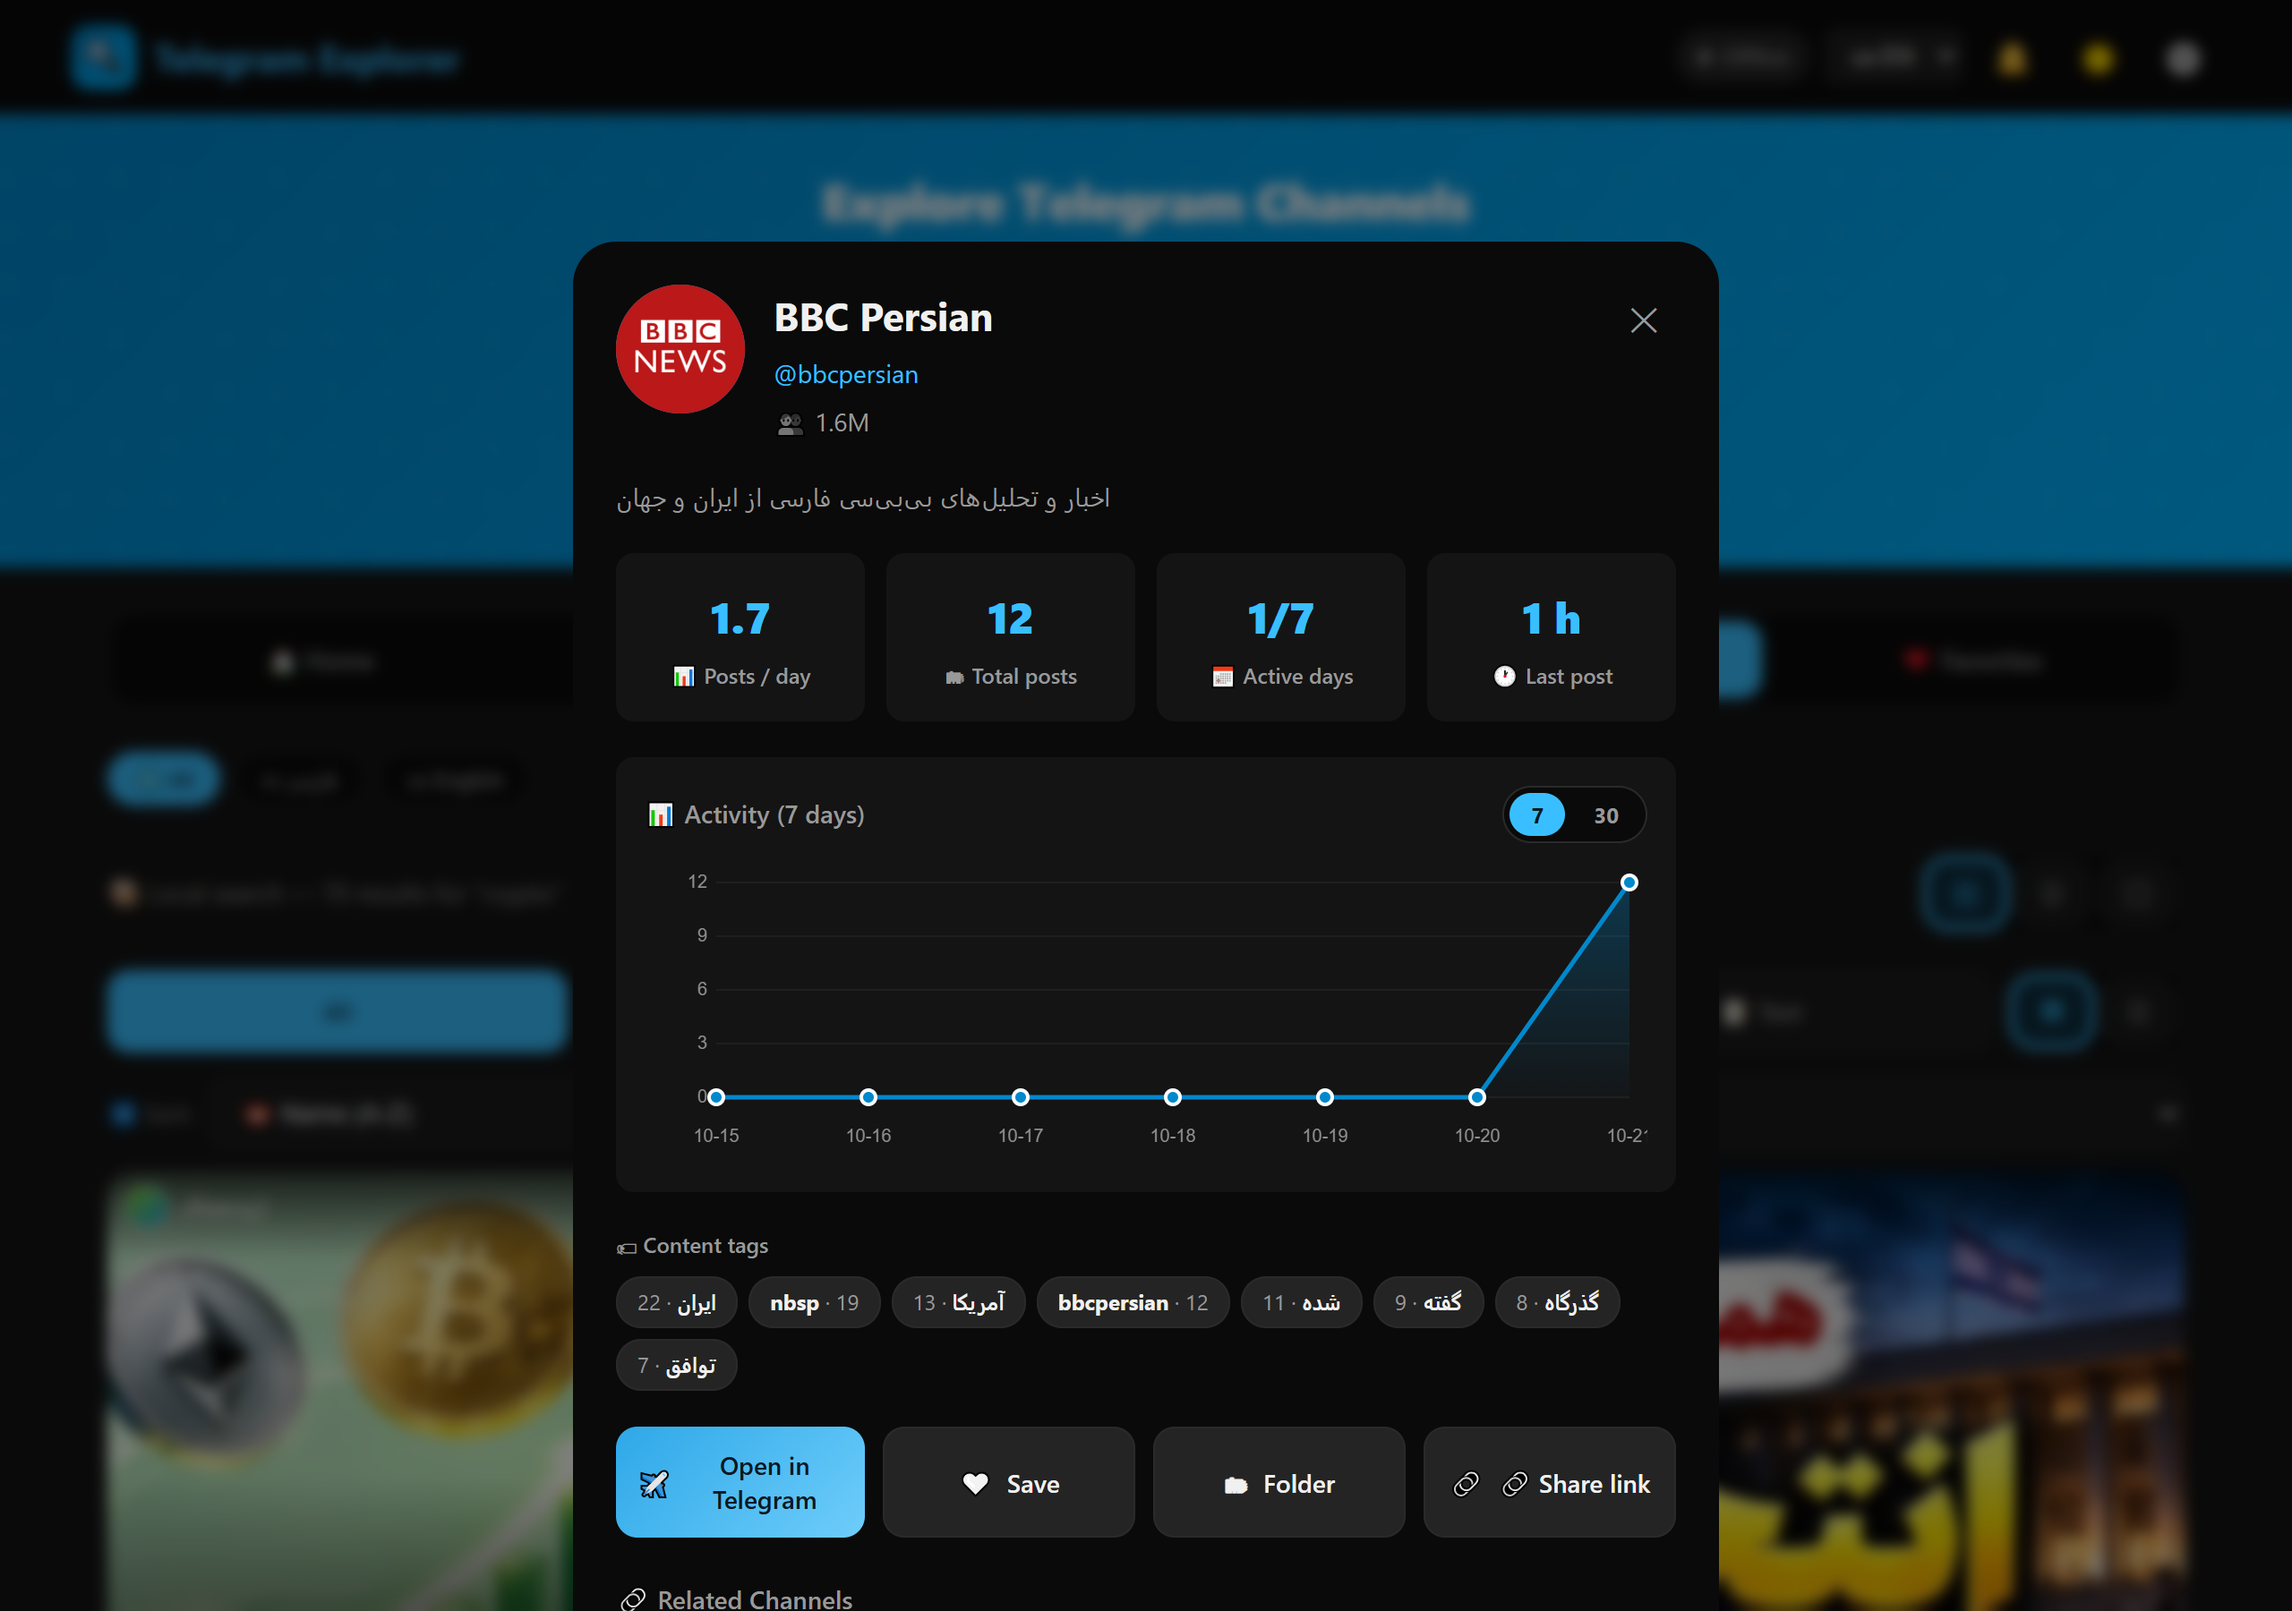
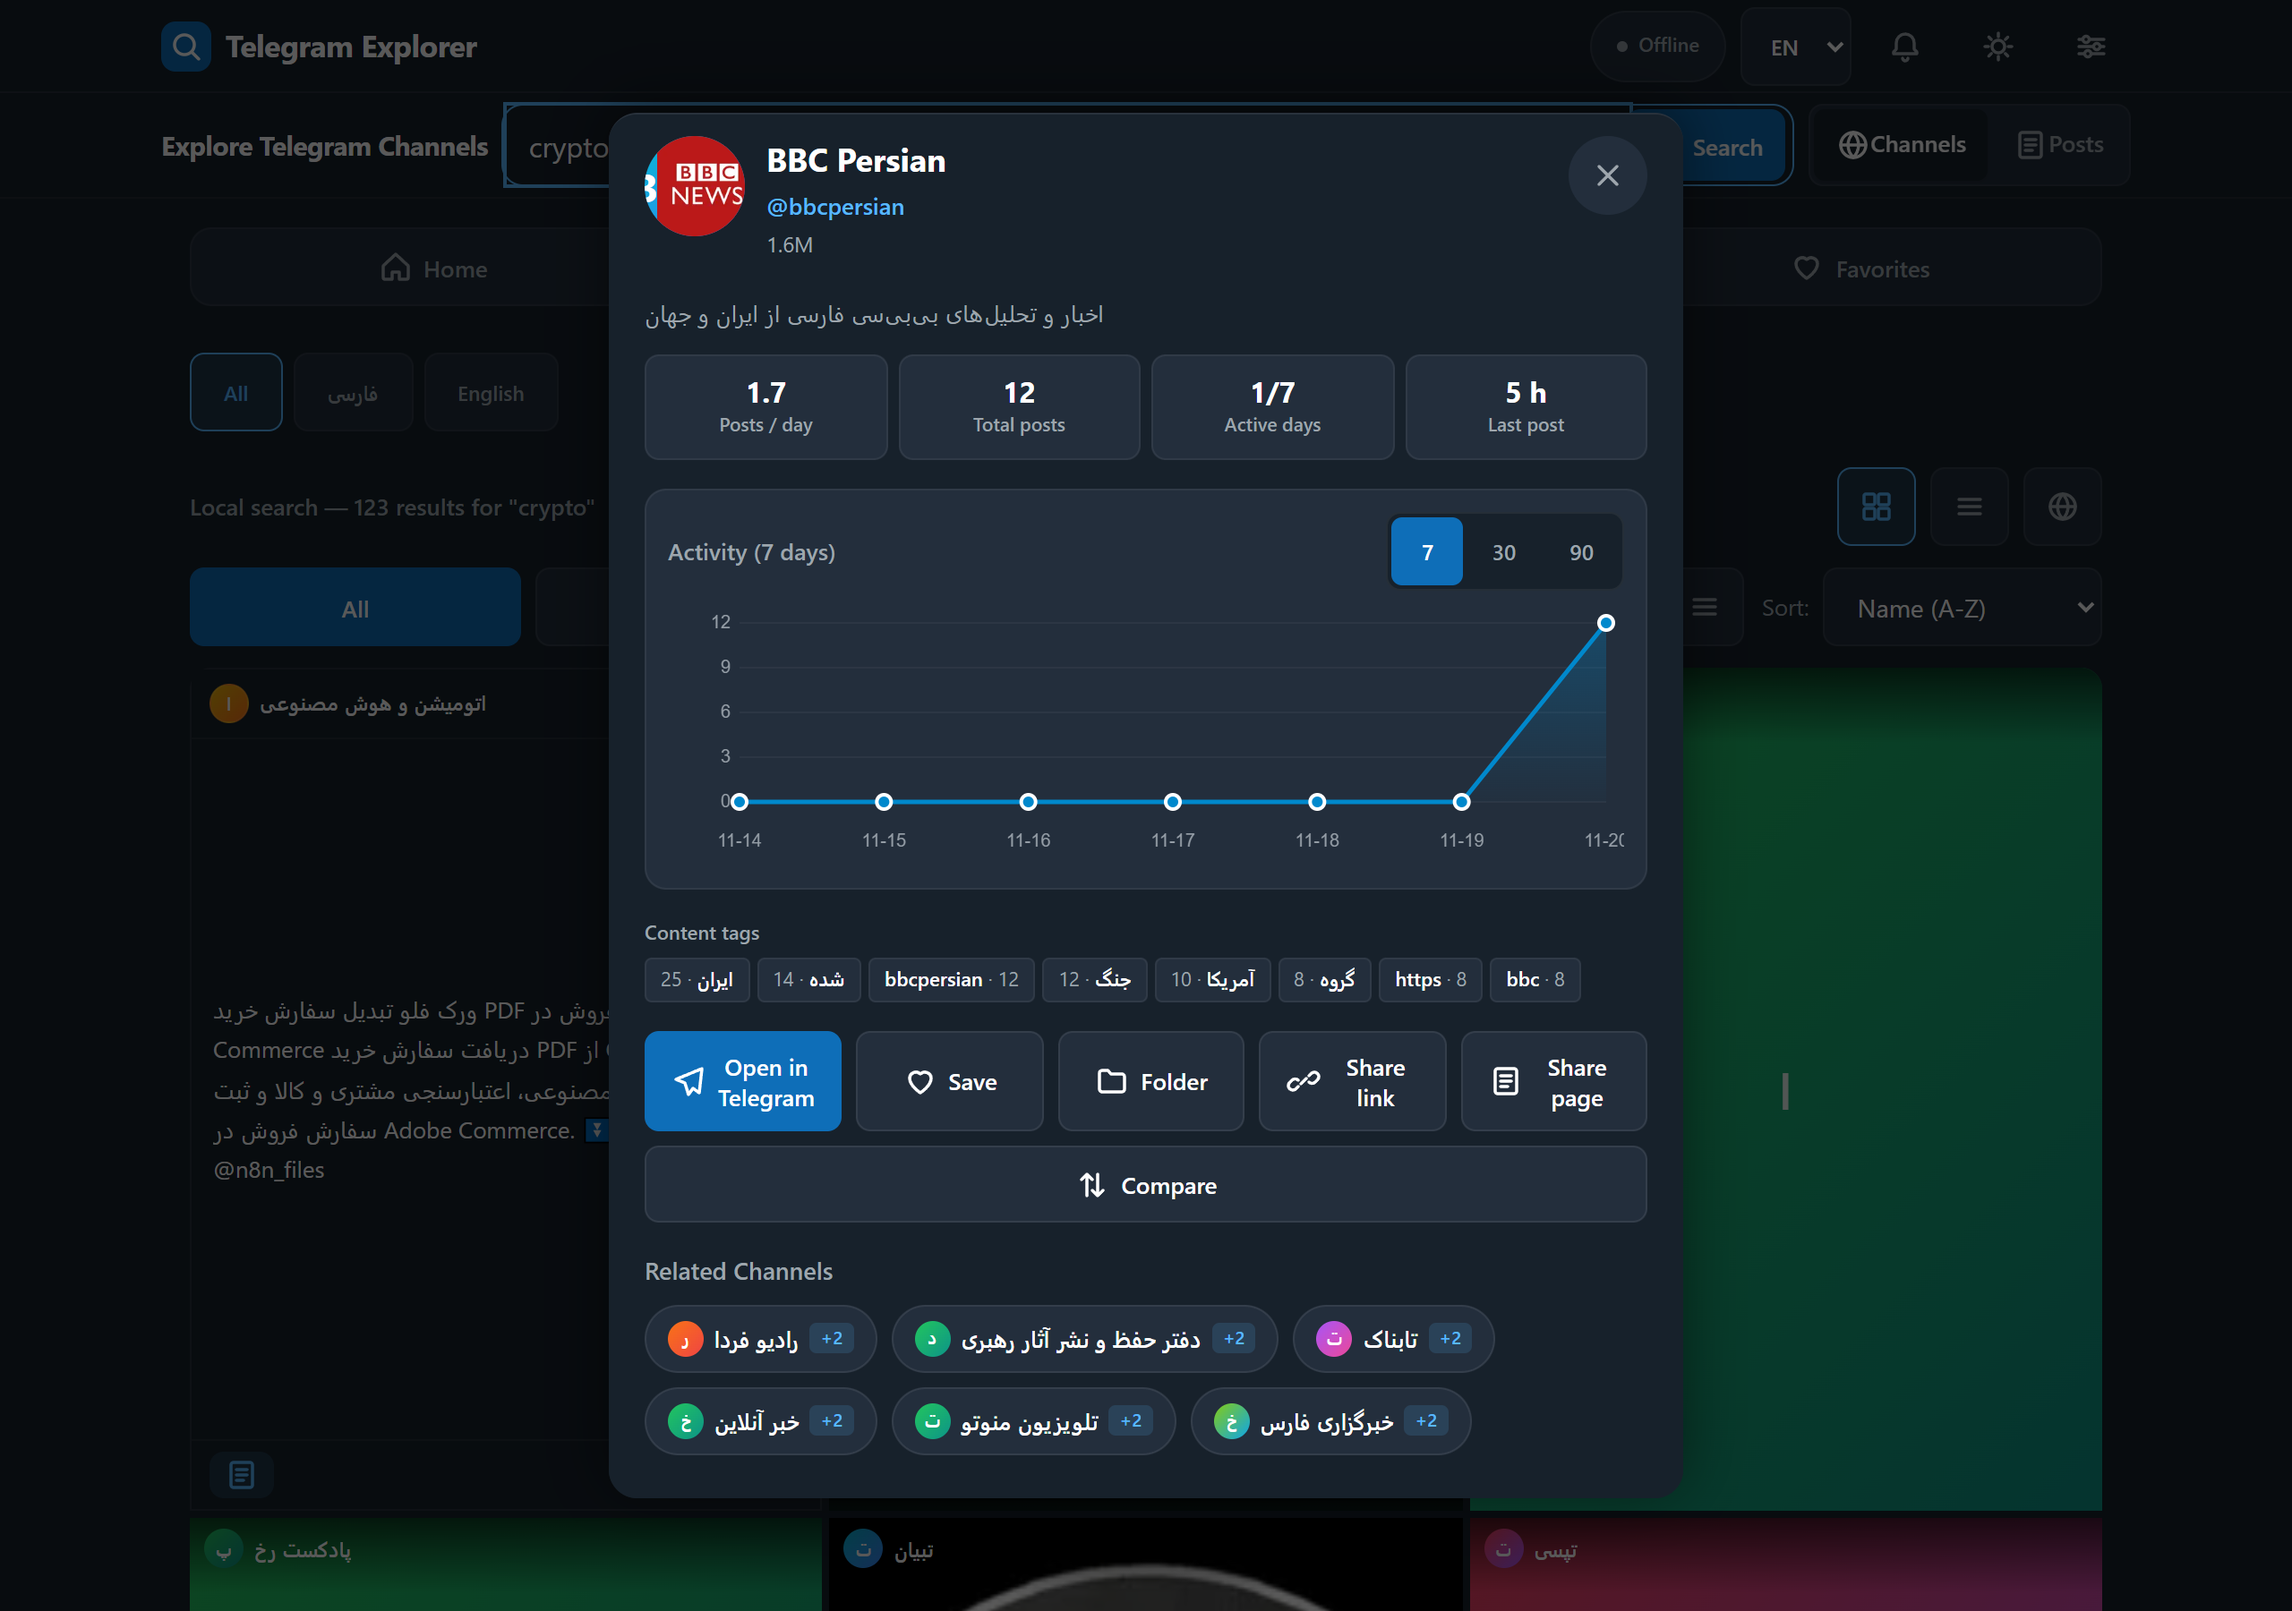
release: v1.8.0

diff --git a/scripts/screenshots.js b/scripts/screenshots.js
@@ -24,7 +24,7 @@ const BASE = process.env.BASE_URL || 'http://localhost:3000';
     colorScheme: 'dark',
   });
   const page = await context.newPage();
-  await page.goto(BASE, { waitUntil: 'load' });
+  await page.goto(BASE, { waitUntil: 'domcontentloaded' });
   await page.evaluate(() => { if (typeof window.skipSetup === 'function') window.skipSetup(); });
   await page.waitForTimeout(3500);
 
@@ -57,7 +57,7 @@ const BASE = process.env.BASE_URL || 'http://localhost:3000';
     hasTouch: true,
   });
   const mpage = await mobile.newPage();
-  await mpage.goto(BASE, { waitUntil: 'load' });
+  await mpage.goto(BASE, { waitUntil: 'domcontentloaded' });
   await mpage.evaluate(() => { if (typeof window.skipSetup === 'function') window.skipSetup(); });
   await mpage.waitForTimeout(3500);
   await mpage.screenshot({ path: path.join(OUT, 'mobile.png') });

diff --git a/sw.js b/sw.js
@@ -3,7 +3,7 @@
 // Handles caching for offline support and PWA
 // ============================================================
 
-const CACHE_NAME = 'tgexplorer-202611201550';
+const CACHE_NAME = 'tgexplorer-202611201915';
 // The watchlist/seen-post state lives in its own, deliberately unversioned
 // cache: `activate` purges every old shell cache, but the user's watch state
 // must survive a deploy.

diff --git a/CHANGELOG.md b/CHANGELOG.md
@@ -3,6 +3,16 @@
 Full version history of Telegram Explorer. The latest release is summarized in the
 [README](README.md#-changelog).
 
+## v1.8.0 (2026-11-20)
+
+- **Design system** — Telegram-native tokens (`themeParams` integration), flat surfaces with no decorative gradients or glassmorphism, and a dark theme that is no longer pitch black.
+- **Icons** — every UI emoji replaced by a single consistent `20×20` inline SVG icon set.
+- **Mobile** — marketing hero removed on mobile, bottom tab bar (`Home` / `Explore` / `Feed` / `Favorites`), Explore controls consolidated into a Filters bottom sheet with swipe-to-close and Telegram `BackButton` support, and **12 channel cards** visible above the fold at `390×844`.
+- **Feed** — text-only posts render as flat text-excerpt tiles (`--bg-secondary`, `--border-subtle`, `--radius-md`), removing the gradient initial-letter tiles.
+- **Motion** — tab content fade, image fade-in on load, and card press scale (`0.98`), using `transform`/`opacity` only and disabled under `prefers-reduced-motion`.
+- **Performance** — worker setup code, Compare, and Export modules are lazy-loaded on demand; `posts.js` no longer blocks first paint; Explore renders in chunks (`6` cards synchronously, rest in `requestAnimationFrame`, cutting longest boot task `885 ms → 192 ms` and local FCP `1.5 s → 1.1 s`). Cold-load Lighthouse performance is still limited by the inline module and style/layout cost; repeat visits are served from the service-worker cache.
+- **Accessibility** — stays at **100**; contrast fixes (`--text-tertiary` now `≥ 4.5:1` in both themes).
+
 ## v1.7.0
 
 - ⚖ **Compare two channels** — the channel modal has a **Compare** button

diff --git a/README.md b/README.md
@@ -98,6 +98,16 @@ too. If you hit a limit, the endpoints keep working from the cache.
 
 ## 📦 Changelog
 
+### v1.8.0 (2026-11-20)
+
+- **Design system** — Telegram-native tokens (`themeParams` integration), flat surfaces with no decorative gradients or glassmorphism, and a dark theme that is no longer pitch black
+- **Icons** — every UI emoji replaced by a single consistent `20×20` inline SVG icon set
+- **Mobile** — marketing hero removed on mobile, bottom tab bar (`Home` / `Explore` / `Feed` / `Favorites`), Explore controls consolidated into a Filters bottom sheet with swipe-to-close and Telegram `BackButton` support, and **12 channel cards** visible above the fold at `390×844`
+- **Feed** — text-only posts render as flat text-excerpt tiles (`--bg-secondary`, `--border-subtle`, `--radius-md`), removing the gradient initial-letter tiles
+- **Motion** — tab content fade, image fade-in on load, and card press scale (`0.98`), using `transform`/`opacity` only and disabled under `prefers-reduced-motion`
+- **Performance** — worker setup code, Compare, and Export modules are lazy-loaded on demand; `posts.js` no longer blocks first paint; Explore renders in chunks (`6` cards synchronously, rest in `requestAnimationFrame`, cutting longest boot task `885 ms → 192 ms` and local FCP `1.5 s → 1.1 s`). Cold-load Lighthouse performance is still limited by the inline module and style/layout cost; repeat visits are served from the service-worker cache
+- **Accessibility** — stays at **100**; contrast fixes (`--text-tertiary` now `≥ 4.5:1` in both themes)
+
 ### v1.7.0
 
 - ⚖ **Compare two channels** — the channel modal has a **Compare** button
